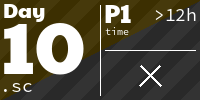
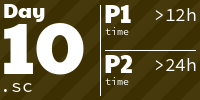
feat(day10): part 2 met delen door 2

diff --git a/README.md b/README.md
@@ -2,7 +2,7 @@
 
 <!-- AOC TILES BEGIN -->
 <h1 align="center">
-  2025 - 22 ⭐ - SuperCollider
+  2025 - 24 ⭐ - SuperCollider
 </h1>
 <a href="2025/day01.sc">
   <img src=".aoc_tiles/tiles/2025/01.png" width="161px">
